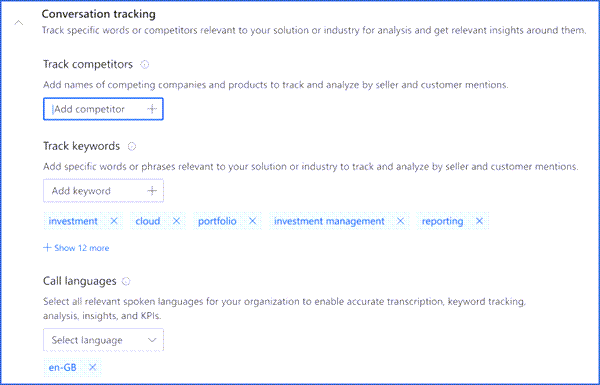
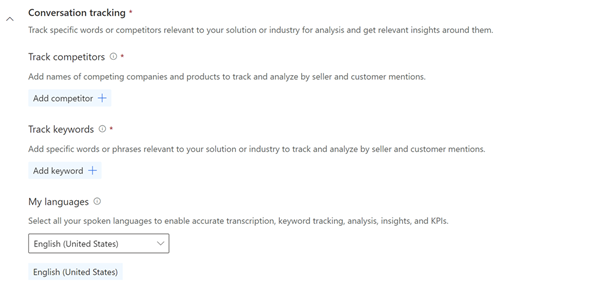
updated the FRE and SM sections

diff --git a/ai-docs/sales/fre-setup-sales-insight-app.md b/ai-docs/sales/fre-setup-sales-insight-app.md
@@ -21,11 +21,11 @@ topic-status: Drafting
 You can configure conversation intelligence with Microsoft Teams by completing the following section:      
 - [The conversation intelligence application](#the-conversation-intelligence-application)    
 - [The Sales Hub app](#the-sales-hub-app)    
-- [Microsoft Teams call recording](#microsoft-teams-call-recording)    
+- [Microsoft Teams for conversation intelligence](#microsoft-teams-conversation-intelligence)    
 
 After you sign in to conversation intelligence or your sales app, you can set up the conversation intelligence depending on the role that's assigned to you.      
-- As an administrator, you can set up the complete application&mdash;including connecting to a Dynamics 365 Sales environment&mdash;grant app permissions, connect call data, enable the preview, and define tracked key words and competitors to use the features that the application offers.     
-- As a sales manager or seller, you can access the application by using demo data. An administrator must configure the application so you can view the data that's relevant to you.
+- As an administrator, you can set up the complete application&mdash;including enable Microsoft Teams call recording for conversation intelligence preview, select storage, grant app permissions, and define organization level tracked keywords and competitors to be used by conversation intelligence.     
+- As a sales manager or a seller, you will need an administrator to configure the application so you can view the data and settings that are relevant to you. More information: [Configure sales team level settings](configure-sales-team-level-settings.md)
 
 ## The conversation intelligence application
 
@@ -123,133 +123,141 @@ Perform the following steps to configure conversation intelligence through the S
 
 Conversation intelligence is configured and ready for use in your organization.
 
-## Microsoft Teams call recording
+## Microsoft Teams for conversation intelligence
 
 > [!IMPORTANT]
-> - The enhanced experience for Microsoft Teams calling with conversation intelligence is a preview feature. [!INCLUDE[cc-preview-features-definition](../includes/cc-preview-features-definition.md)]
+> - The enhanced experience for Microsoft Teams together with conversation intelligence is a preview feature. [!INCLUDE[cc-preview-features-definition](../includes/cc-preview-features-definition.md)]
 > - [!INCLUDE[cc-preview-features-expect-changes](../includes/cc-preview-features-expect-changes.md)]
 > - [!INCLUDE[cc-preview-features-no-ms-support](../includes/cc-preview-features-no-ms-support.md)] 
 
-When Microsoft Teams call recording is integrated with conversation intelligence, making calls and analyzing conversations are made easy. An organization's sales teams can drill down into their customer interactions, and get real-time call transcripts and post-call summaries.
-
-As a Dynamics 365 system administrator, you must configure conversation intelligence to connect Microsoft Teams call recording for your sales teams to get real-time call transcripts, post-call summaries, and call insights.
+Using Microsoft Teams together with conversation intelligence in Dynamics 365 Sales helps organizations transform customer interactions into revenue. Calling with Microsoft Teams allows business critical insights to be surfaced both in real-time (during the call), as well as post-call, and are seamlessly tied to the relevant Dynamics 365 records.
 
 ### Review the prerequisites
 
 Review the following requirements before you configure Microsoft Teams call recording for conversation intelligence:
 
+- You must purchase a [Dynamics 365 Sales Insights](https://portal.office.com/signup/logout?OfferId=5be85c9f-df71-4bcf-ac2f-b2a05b4a1f99&ali=1) or Sales Premium license 
 - You must have a Dynamics 365 system administrator or equivalent security role. More information: [Assign a security role to a user](https://docs.microsoft.com/power-platform/admin/create-users-assign-online-security-roles#assign-a-security-role-to-a-user)
-- Your organization has a phone system installed with a valid license to use it. More information: [Set up Phone System in your organization](https://docs.microsoft.com/MicrosoftTeams/setting-up-your-phone-system)
-- You have a license to use Microsoft Teams call recording. More information: [Microsoft Teams add-on licenses](https://docs.microsoft.com/MicrosoftTeams/teams-add-on-licensing/microsoft-teams-add-on-licensing?tabs=small-business)
-- You have [configured Microsoft Teams dialer](https://docs.microsoft.com/dynamics365/sales-enterprise/configure-microsoft-teams-dialer) in your organization.
-- A tenant administrator must run the PowerShell script, described in the [Run the PowerShell script to record calls](#run-the-powershell-script-to-record-calls) section, to record, and store Microsoft Teams calls. information: 
+- Your organization has a Microsoft Teams phone system installed with a valid license to use it. More information: [Set up Phone System in your organization](https://docs.microsoft.com/MicrosoftTeams/setting-up-your-phone-system)
+- You have a license to use Microsoft Teams. More information: [Microsoft Teams add-on licenses](https://docs.microsoft.com/MicrosoftTeams/teams-add-on-licensing/microsoft-teams-add-on-licensing?tabs=small-business)
+ 
+### Enable calling with Microsoft Teams 
 
+Before you can proceed to configuring Microsoft Teams with conversation intelligence, you must enable the Microsoft Teams dialer for your organization. More information: [Configure Microsoft Teams dialer](/sales-enterprise/configure-microsoft-teams-dialer). 
+ 
 ### Run the PowerShell script to record calls
 
-Before you configure the Teams dialer, run the PowerShell script to record calls through Teams and store them in default Microsoft storage for real-time processing. You must have tenant administrator privileges to run the script. Follow these steps:
+Before you configure the Teams dialer, run the PowerShell script to enable recording of your Microsoft Teams calls. These call recordings are used for processing and analysis. The PowerShell script creates:
+- An Azure Active Directory (Azure AD) security group for which the recording will be enabled
+- Microsoft Teams call recording–related artifacts, such as service principal and recording policy
 
-1.	Download the PowerShell script to your local computer. Select **Download**.   
+Follow these steps:   
+1. [Download the PowerShell script](#download-the-powershell-script)   
+2. [Configure the PowerShell script](#configure-the-powershell-script)   
+
+#### Download the PowerShell script
+
+1.	Sign into the Dynamics 365 Sales Hub app as an Dynamics 365 system administrator.    
+2.	Select the **change area** ![change area](media/change-area-icon.png) in the lower-left corner of the page, and then select **Sales Insights settings**.  
     > [!div class="mx-imgBorder"]
-    > ![Download PowerShell script](media/si-admin-download-powershell-script.png "Download PowerShell script")     
+    > ![Select Sales Insights settings](media/si-admin-change-area-sales-insights-settings.png "Select Sales Insights settings")   
+3.	On the site map, under **Productivity** > **Conversation intelligence**.   
+    The conversation intelligence home page opens.   
+    > [!div class="mx-imgBorder"]
+    > ![Conversation intelligence home page](media/ci-admin-getting-started-page.png "Conversation intelligence home page")   
+4.	On the home page, select **Get started**.   
+    The conversation intelligence configuration page opens.
+5.	In the **Microsoft Teams Call Recording** section, the application validates the successful configuration of the **Microsoft Teams** dialer, and the **PowerShell script**.    
+    > [!div class="mx-imgBorder"]
+    > ![Download PowerShell script](media/ci-admin-download-powershell-script.png "Download PowerShell script")    
+6.	Select **Download** to download the PowerShell script to your local computer.   
 
-2.	Open a PowerShell command window and go to the script location.     
-3.	To run the script, enter the following command, and then press **Enter**:     
-    ```.\<script name>```     
+#### Configure the PowerShell script
+
+>[!IMPORTANT]
+>You must have tenant administrator privileges to run the PowerShell script. 
+  
+1.	Open a PowerShell command window as administrator and verify that you have the latest PowerShell version. Run the following commands:
+    -	`Install-PackageProvider -Name NuGet -Force`
+    -	`Install-Module -Name PowerShellGet -Force -AllowClobber`
+2.	Install the dependencies by running the following commands:    
+    -	`Install-Module -Name MicrosoftTeams -RequiredVersion 1.1.6 -Force -AllowClobber`
+    -	`Install-Module AzureAD`
+    -	`Install-Module MSAL.PS`     
+3.	To run the script, enter the following command:     
+    ```.\MediaRecordingTenantProvisioning.ps1```     
     The package starts installing and a sign-in dialog box opens.     
-4.	Enter your tenant administrator credentials to sign in to your organization to create the following:     
-    -	Azure Active Directory (Azure AD) security group for whom the recording will be enabled.     
-    -	Microsoft Teams call recording&ndash;related artifacts, such as service principal and recording policy.      
-5.	The script installs successfully.     
+4.	Enter your tenant administrator credentials to sign into your organization.
+    >[!NOTE]
+    >You’ll be asked to provide credentials thrice.       
 
-You can proceed to configure the Microsoft Teams call recording for conversation intelligence.
+	The script installs.     
+5.	Go back to Sales Hub app and select **Check status** to validate the successful installation.
+
+You can proceed to configure the Microsoft Teams with conversation intelligence.
+
+>[!NOTE]
+><a name="teams-tenant-admin-contact"></a>If any of the validations fail, you can't proceed with the configuration.  
+>    -	To set up the phone system and Microsoft Teams for your organization, contact your Microsoft Teams administrator. 
+>    -	To run the PowerShell script, contact your tenant administrator. More information: [Configure the PowerShell script](#configure-the-powershell-script) 
 
 ### Configure Microsoft Teams call recording
 
-1.	Sign in to Dynamics 365 Sales Hub app.
-
+1.	Sign in to Dynamics 365 Sales Hub app.     
 2.	Select the **change area** ![change area](media/change-area-icon.png) in the lower-left corner of the page, and then select **Sales Insights settings**.  
     > [!div class="mx-imgBorder"]
-    > ![Select Sales Insights settings](media/si-admin-change-area-sales-insights-settings.png "Select Sales Insights settings")  
-
-3.	On the site map, under **Connection insights**, select **Conversation intelligence**.     
-    The conversation intelligence requirements verification page opens.
-
-    > [!div class="mx-imgBorder"]
-    > ![Microsoft Teams integration requirements verification](media/si-admin-teams-req-verfication.png "Microsoft Teams integration requirements verification")
-
-4.	In the **What you need to set up Microsoft Teams calls** section, the application validates the licenses to use the phone system and Microsoft Teams for your organization. Also, it verifies that the PowerShell script to record and store the calls for Microsoft Teams has been run in your organization.
-
-    - Upon successful validation, the status corresponding to **Phone system license**, **Teams license**, and **PowerShell script** is displayed as **Status: Successfully set up**. Proceed to step 5.
-
-      > [!div class="mx-imgBorder"]
-      > ![Phone system, teams licenses, and PowerShell script successful validation](media/si-admin-teams-dialer-systems-validation-successful.png "Phone system, teams licenses, and PowerShell script successful validation")
-
-    - <a name="teams-tenant-admin-contact"></a> If any of the validations fails, you can't proceed with the configuration. You must contact your tenant administrator to set up the phone system and Microsoft Teams call recording for your organization.
-    When the tenant administrator reviews and completes the configuration of your [phone system](https://docs.microsoft.com/MicrosoftTeams/setting-up-your-phone-system) and [Microsoft Teams licenses](https://docs.microsoft.com/MicrosoftTeams/teams-add-on-licensing/microsoft-teams-add-on-licensing?tabs=small-business), 
-    configure the [PowerShell script to record calls](#run-the-powershell-script-to-record-calls), as described earlier in this topic. Upon successful validation of the licenses, continue with the configuration. 
-    Select **Check status**.
-      > [!div class="mx-imgBorder"]
-      > ![Phone system, Microsoft Teams licenses, and PowerShell script failed validation](media/si-admin-teams-dialer-systems-validation-failed.png "Phone system, Microsoft Teams licenses, and PowerShell script failed validation")
-
-    >[!NOTE]
-    >If you don't want to use default Microsoft provided storage, use your custom defined storage location to upload call recording, under **Record and upload your own calls**, select **Connect my own storage**. You're directed to the storage settings page. To learn more, go to [The Sales Hub app](#the-sales-hub-app), earlier in this topic.   
-    >![Connect your own storage](media/si-admin-teams-connect-storage.png "Connect your own storage")
-
-5.	Select **Get started**. The conversation intelligence configuration page opens.
-
-6.	Under **Microsoft Teams call recordings (preview)**, configure the call-related options as described in the following table.
+    > ![Select Sales Insights settings](media/si-admin-change-area-sales-insights-settings.png "Select Sales Insights settings")     
+3.	On the site map, under **Global settings** > **Productivity** > **Conversation intelligence**.   
+    The conversation intelligence home page opens.    
+4.	Under the **Microsoft Teams call recordings (preview)** section, enable the preview and then configure the other settings as described in the following table.
 
     | Option | Description |
     |--------|-------------|
-    | Turn on Teams call preview | Turn on this toggle to enable the preview to use Microsoft Teams call recording as your phone system to record calls. More information: [Configure Microsoft Teams dialer](https://docs.microsoft.com/dynamics365/sales-enterprise/configure-microsoft-teams-dialer) |
-    | Call recording permissions | Specifies the security roles from your organization who have permission to use the Microsoft Teams dialer. By default, permission is granted to all security roles in your organization. If you want to add or remove security roles, go to [Configure the dialer](https://docs.microsoft.com/dynamics365/sales-enterprise/configure-microsoft-teams-dialer#configure-the-dialer). |
-    | Call recording activation | Select an option to initiate call recordings:<ul><li>**Automatically**: Select this option if you want the calls to be automatically recorded when a call is initiated.</li><li>**On demand**: Select this option if you want to allow sellers to start the call recording when a call is initiated.</li></ul>Turn on the **Users can manually stop recording** toggle to allow users to stop recording at any point during the call. |
-    | Recording notification for customers | Turn on this toggle to notify customers when the call recording is initiated. This lets customers know that the sellers are recording their conversation. |
-    
-    > [!div class="mx-imgBorder"]
-    > ![Enable Microsoft Teams calls and recordings](media/si-admin-teams-enable-teams-call-recording.png "Enable Microsoft Teams calls and recordings")   
+    | Microsoft Teams security roles | Specifies the security roles in your organization who have permission to use the Microsoft Teams dialer. By default, permission is granted to all security roles in your organization. If you want to add or remove security roles, go to [Configure the dialer](https://docs.microsoft.com/dynamics365/sales-enterprise/configure-microsoft-teams-dialer#configure-the-dialer). |
+    | Call recording activation | Select an option to initiate call recordings:<ul><li>**Automatically**: Select this option if you want the calls to be automatically recorded when a call is initiated.</li><li>**On demand**: Select this option if you want to allow sellers to start the call recording when a call is initiated.</li></ul>Turn on the **Users can manually stop recording** toggle to allow sellers to stop recording at any point during the call. |
+    | Recording notification for customers | Turn on this toggle to notify customers when the call recording is initiated. This lets customers know that the call is being recorded. |
 
-7.	Under **Call recording storage**, configure the storage-related options as described in the following table.
+    > [!div class="mx-imgBorder"]
+    > ![Enable Microsoft Teams call recording preview](media/ci-admin-enable-teams-preview.png "Enable Microsoft Teams call recording preview")     
+
+    >[!NOTE]
+    >Microsoft Teams call recording settings, storage selection, and conversation tracking are required to configure only for first-time onboarding to conversation intelligence. All remaining steps are optional. You can choose to configure them now or later when required.   
+
+5.	(Optional) Under **Call recording storage**, configure the storage-related options as described in the following table.
 
     | Option | Description |
     |--------|-------------|
     | Storage for call recordings | Select an option to store your call recordings for analysis:<ul><li>**Microsoft provided storage**: Select this option if you want to use the storage provided by Microsoft. By default, this option is selected, and we recommend that you use this storage.</li><li>**Your own Azure storage**: Select this option if you want to use your custom Azure storage. After you select this option, enter the **Storage connection string** and **Container name**.</li></ul> To learn more, go to [Configure conversation intelligence to connect call data](configure-conversation-intelligence-call-data.md). |
-    | Retention policy | Choose a retention time limit. The application will retain call recording data for the specified time limit and deletes it when the time limit is reached. To learn more, go to [Retention Policy](data-retention-deletion-policy.md#retention-policy). |   
+    | Retention policy | Choose a retention time limit. The application retains call recording data for the specified time limit, and deletes it when the time limit is reached. To learn more, go to [Retention Policy](data-retention-deletion-policy.md#retention-policy). |   
 
     > [!div class="mx-imgBorder"]
-    > ![Select a storage option and retention policy](media/si-admin-teams-choose-storage-retention-policy.png "Select a storage option and retention policy")
+    > ![Select a storage option and retention policy](media/ci-admin-teams-choose-storage-retention-policy.png "Select a storage option and retention policy")
 
     >[!NOTE]
-    > Steps 8 to 12, including, are optional. You can choose to configure now or later when required. If you choose to configure these settings later, you can skip to step 13.    
+    >For Microsoft-provided storage, the available retention periods are 30 days and 90 days. If your organization requires longer retention periods, please consider using your own storage.    
 
-8.	Under **Conversation tracking**, add the keywords and competitors that you want to track on the call. You can update these keywords and competitors later if your organization requires it. Also, you can add languages that the sellers might use during their calls with customers. To learn more, go to [Configure keywords and competitors in Conversation content](configure-keywords-competitors.md).     
+6.	Under **Conversation tracking**, add the keywords and competitors that your organization wishes to track during calls, and add the languages used by sellers during calls with customers. 
+    This is a global setting that will be applied to all sales calls in the organization. You must set at least one global keyword and at least one global competitor to enable conversation intelligence. You can update these keywords and competitors later if required. More information: [Configure keywords and competitors in Conversation content](configure-keywords-competitors.md). 
+        
     > [!div class="mx-imgBorder"]
     > ![Configure conversation tracking](media/ci-admin-conversation-trackers.png "Configure conversation tracking")    
-9. In the **Sales team management** section, configure the top sellers and hierarchy options as follows:  
-    - **Call data visibility**: Select the levels of hierarchy for which sales managers can view conversation intelligence data.  
-    - **Team members and top performers**: You can view the names of your team members whose calls are being analyzed in conversation intelligence, select your top performers, and delete data if necessary. 
-        You can choose the top performers manually, or let the application choose them automatically. Select one of the following options:  
-        - **Manually select top performers**: Choose top performers from the list of sellers. In the **Top performer** column, select the star icon corresponding to a seller. The seller is added to the top performers list, where the seller's data is compared against other sellers.
-        - **Enable automatic identification of top performers**: The application automatically selects the top performers based on the number of leads they qualified or opportunities they won. When you select this option, you choose whether to rank performers **by won opportunities** or **by lead qualification**.  
-    > [!div class="mx-imgBorder"]
-    > ![Choose and configure your sales team](media/ci-admin-choose-sales-team.png "Choose and configure your sales team")  
-    You can skip configuring this section and add your sales team later, when required. More information: [Configure and view your team page](../sales/configure-view-your-team-page.md) 
-10.	In the **License usage** section, you can view information about the total call recording processing hours that are left versus how many have been used. This information view-only and can't be changed.  
-    > [!div class="mx-imgBorder"]
-    > ![View license usage information](media/ci-admin-license-usage.png "View license usage information")   
-11.	In the **Privacy** section, you can select the check box to allow Microsoft to improve the quality of insights through read-only access to your organization's data in conversation intelligence. This is optional.  
+7.	(Optional) In the **Privacy** section, you can select the check box to allow Microsoft to improve the quality of insights with read-only access to your organization's data in conversation intelligence.  
     > [!div class="mx-imgBorder"]
     > ![Enable privacy](media/ci-admin-enable-privacy.png "Enable privacy")   
-12.	In the **Coming soon** section, select the **Access new features before they're released to all our customers** check box to turn on the "coming soon" feature.      
+8.	In the **License usage** section, you can view information about the total call recording processing hours that have been used, and how many available hours remain.       
+    > [!div class="mx-imgBorder"]
+    > ![View license usage information](media/ci-admin-license-usage.png "View license usage information")   
+
+9.	(Optional) In the **Coming soon** section, select the **Access new features before they're released to all our customers** check box to turn on the "coming soon" feature.      
     If you don't want to enable preview features for your organization, skip this step. You can always enable them later. More information: [Enable coming soon features](../sales/enable-preview-features-sales-insights-app.md)  
     > [!div class="mx-imgBorder"]
     > ![Enable coming soon features](media/ci-admin-coming-soon-features.png "Enable coming soon features")  
-13.	Select **Save + publish**.      
-    A message is displayed to accept the terms and conditions. Read the terms and conditions, and the privacy statement, carefully. Select **Agree and continue**.      
+10.	Select **publish**.      
+    A message is displayed to accept the terms and conditions. Read the terms and conditions, and the privacy statement. Select **Agree and continue**.      
     > [!div class="mx-imgBorder"]
     > ![Agree to terms and conditions to publish the configurations](media/ci-admin-agree-terms-conditions-to-publish.png "Agree to terms and conditions to publish the configurations")    
 
-Microsoft Teams call recording for conversation intelligence is configured and ready for use in your organization.
+Microsoft Teams call recording with conversation intelligence is now configured and ready for use in your organization.
 
 ### See also
 

diff --git a/ai-docs/sales/configure-sales-team-level-settings.md b/ai-docs/sales/configure-sales-team-level-settings.md
@@ -1,0 +1,58 @@
+---
+title: "Configure the sales team level settings in conversation intelligence (Dynamics 365 Sales) | MicrosoftDocs"
+description: "Learn how to configure the sales team level settings in conversation intelligence in Dynamics 365 Sales."
+ms.date: 04/14/2021
+ms.service: dynamics-365-sales
+ms.topic: article
+author: udaykirang
+ms.author: udag
+manager: shujoshi
+---
+
+# Configure sales team-level settings
+
+As a sales manager, you can configure conversation intelligence to match your teams’ specific requirements. The following settings are available:    
+- Conversation trackers (keywords and competitors)
+- Available languages
+- Selection of top performers 
+
+Follow these steps:
+1.	Sign into the Dynamics 365 Sales Hub app with sales manager security role.    
+2.	Select the **change area** ![change area](media/change-area-icon.png) in the lower-left corner of the page, and then select **Personal settings**.  
+    > [!div class="mx-imgBorder"]
+    > ![Select personal settings](media/si-admin-change-area-personal-settings.png "Select personal settings")   
+3.	On the site map, under **Productivity** > **Conversation intelligence**.   
+    The conversation intelligence home page opens.   
+    > [!div class="mx-imgBorder"]
+    > ![Conversation intelligence getting started for sales manager](media/ci-sm-getting-started-page.png "Conversation intelligence getting started for sales manager")   
+4.	On the home page, select **Get started**.   
+    The conversation intelligence configuration page opens.     
+    > [!div class="mx-imgBorder"]
+    > ![Conversation intelligence home page for sales manager](media/ci-sm-home-page.png "Conversation intelligence home page for sales manager")   
+5.	Under the **Conversation tracking** section, add the keywords and competitors that you want to track on your sales team’s calls. Also, you can reduce the language list provided by the organizational admin to the languages that the sellers on your team use during their calls with customers.      
+    This is a local setting that will be applied only to your sales team. You can update these keywords, competitors, languages later when required. More information: [Configure conversation content](../sales/configure-keywords-competitors.md).
+
+    > [!div class="mx-imgBorder"]
+    > ![Configure conversation tracking](media/ci-admin-conversation-trackers.png "Configure conversation tracking")    
+
+6.	In the **Sales team management** section, configure the top performers as follows:    
+    You can view the names of the team members whose calls are analyzed in conversation intelligence and select the sellers who are top performers.     
+    It’s possible to choose the top performers manually, or let the application automatically select them. Select one of the following options:   
+    - **Manually select top performers**: Choose top performers from the list of sellers. In the **Top performer** column, select the star icon next to your top seller. The seller is added to the top performers list, where the seller's data is compared to other sellers.     
+        > [!div class="mx-imgBorder"]
+        > ![Manually select top performers](media/ci-sm-manually-select-top-performers.png "Manually select top performers")    
+    - **Enable automatic identification of top performers**: The application automatically selects the top performers based on the number of opportunities they won or the leads they qualified. When you select this option, you choose whether to rank performers **by won opportunities** or **by lead qualification**.   
+        > [!div class="mx-imgBorder"]
+        > ![Enable automatic identification of top performers](media/ci-sm-automatic-identification-top-performers.png "Enable automatic identification of top performers")    
+
+Conversation intelligence is now configured and ready for use in your sales organization for your sales team.
+
+### See also
+
+[Introduction to administer conversation intelligence](intro-admin-guide-sales-insights.md#administer-conversation-intelligence)  
+[First-run set up experience](fre-setup-sales-insight-app.md#microsoft-teams-conversation-intelligence)
+
+
+[!INCLUDE[footer-include](../includes/footer-banner.md)]    
+    
+ 

diff --git a/ai-docs/sales/TOC.md b/ai-docs/sales/TOC.md
@@ -59,6 +59,7 @@
 ### Configure conversation intelligence
 #### [Prerequisites to use Conversation Intelligence](../sales/prereq-sales-insights-app.md)
 #### [First-run set up experience](../sales/fre-setup-sales-insight-app.md)
+#### [Configure sales team level settings](../sales/configure-sales-team-level-settings.md)
 #### [Configure conversation intelligence to connect call data](../sales/configure-conversation-intelligence-call-data.md)
 #### [Configure and view your team page](../sales/configure-view-your-team-page.md)
 #### [Configure conversation content](../sales/configure-keywords-competitors.md)
